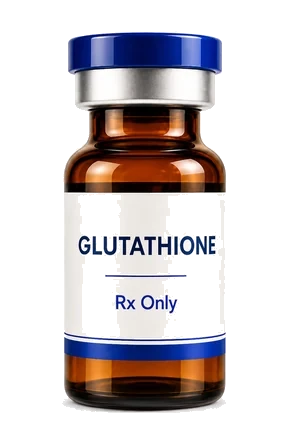
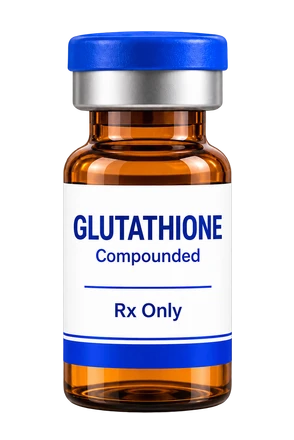
feat: new Glutathione vial image
Replaces the Glutathione vial cutout with the owner's new render
(images/Healthy-Aging/product_glutathione-vial_transparent.png), converted
to the same 294x440 WebP canvas and framing as the other vials. The label
now reads "Glutathione, Compounded, Rx Only", so the alt text says so.

Shown on the Healthy Aging product card and the Learning Center
treatment cards.

diff --git a/wellpeps-site/src/data/peptide.ts b/wellpeps-site/src/data/peptide.ts
@@ -75,7 +75,7 @@ export const VIAL_ALT: Readonly<Record<string, string>> = {
   '/images/peptide/vial-sermorelin.webp': 'An amber vial labeled Sermorelin, Rx Only',
   '/images/peptide/vial-nad.webp': 'An amber vial labeled NAD+, Rx Only',
   '/images/peptide/vial-nad-nasal-spray.webp': 'A spray bottle labeled NAD+ Nasal Spray, Compounded, Rx Only',
-  '/images/peptide/vial-glutathione.webp': 'An amber vial labeled Glutathione, Rx Only',
+  '/images/peptide/vial-glutathione.webp': 'An amber vial labeled Glutathione, Compounded, Rx Only',
   '/images/peptide/vial-mic.webp': 'An amber vial labeled B12 MIC, Rx Only',
   '/images/peptide/vial-lipoc.webp': 'An amber vial labeled Lipo-C L-Carnitine, Rx Only',
   '/images/peptide/vial-methylene-capsules.webp': 'A white bottle labeled Methylene Blue Capsules, Compounded, Rx Only',
